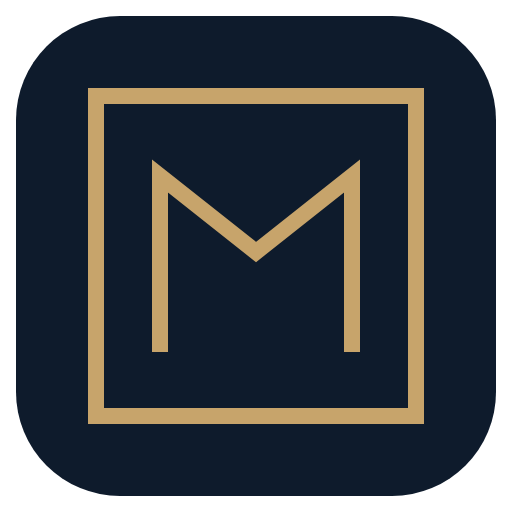
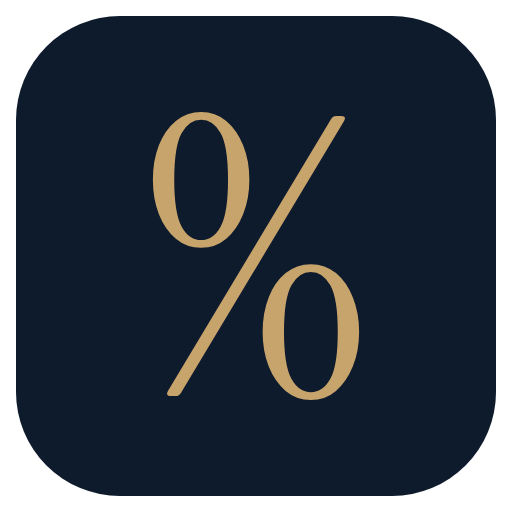
Új ikon: % jel (Instrument Serif) a keretes „M” helyett
- A keretes „M” a Gmail ikonjára emlékeztetett; az új jel a PD-re utal
- A betűjel vektoros útvonalként (nem függ betűtípustól); 24 px alatt
  vastagítva, hogy a tálcán is olvasható legyen
- app.ico (16–256 px), PNG-k, maskable ikon, favicon, fejléclogó
  (megnyitáskor kirajzolódik, majd kitöltődik)
- 96/96 teszt

Claude-Session: https://claude.ai/code/session_01XYeoaty873nzh4BqZz54MB

Changed region(s): [[0.1562, 0.1562, 0.8438, 0.8438]]

diff --git a/index.html b/index.html
@@ -58,6 +58,7 @@ body { margin: 0; background: var(--bg); color: var(--text); font: 15px/1.5 var(
 .mast-row { display: flex; justify-content: space-between; align-items: center; gap: 16px; flex-wrap: wrap; }
 .brand { display: flex; align-items: center; gap: 16px; }
 .brand svg { flex: none; }
+.brand svg .mark { fill: #C7A46B; stroke: #C7A46B; stroke-width: .5; }
 h1 { font-family: var(--serif); font-size: 30px; font-weight: 400; letter-spacing: 0; margin: 0; line-height: 1.1; }
 .brand .sub { font-size: 11px; letter-spacing: .22em; text-transform: uppercase; color: var(--mast-kicker); margin-top: 2px; }
 .head-actions { display: flex; gap: 8px; }
@@ -121,9 +122,10 @@ h1 { font-family: var(--serif); font-size: 30px; font-weight: 400; letter-spacin
 @keyframes fade { from { opacity: 0; } to { opacity: 1; } }
 @keyframes draw { from { stroke-dashoffset: 1; } to { stroke-dashoffset: 0; } }
 @keyframes grow { from { transform: scaleX(0); } to { transform: scaleX(1); } }
+@keyframes ink { to { fill-opacity: 1; } }
 @media (prefers-reduced-motion: no-preference) {
   /* oldalbetöltés: a logó kirajzolódik, a fejléc halkan beúszik */
-  .brand svg path { stroke-dasharray: 1; stroke-dashoffset: 1; animation: draw 1.6s var(--ease) .05s forwards; }
+  .brand svg .mark { fill-opacity: 0; stroke-dasharray: 1; stroke-dashoffset: 1; animation: draw 1.4s var(--ease) .05s forwards, ink .8s ease .95s forwards; }
   .brand > div { animation: rise .9s var(--ease) .2s both; }
   .tabs, .head-actions { animation: fade .9s ease .35s both; }
   .disclaimer > div { animation: fade .9s ease .45s both; }
@@ -258,7 +260,7 @@ footer { margin-top: 24px; color: var(--muted); font-size: 12px; text-align: cen
   <div class="mast-inner">
     <div class="mast-row">
       <div class="brand">
-        <svg width="40" height="40" viewBox="0 0 40 40" fill="none" aria-hidden="true"><path pathLength="1" d="M1 1H39V39H1Z" stroke="#B08D57" stroke-width="1.5"/><path pathLength="1" d="M10 28V14l10 8 10-8v14" stroke="#B08D57" stroke-width="1.5"/></svg>
+        <svg width="40" height="40" viewBox="0 0 40 40" fill="none" aria-hidden="true"><rect x=".75" y=".75" width="38.5" height="38.5" rx="8" fill="#16263B" stroke="#B08D57" stroke-opacity=".45" stroke-width="1.5"/><path class="mark" pathLength="1" d="M15.81 19.38Q14.71 19.38 13.88 18.68Q13.04 17.98 12.58 16.8Q12.12 15.63 12.12 14.17Q12.12 12.72 12.58 11.54Q13.04 10.37 13.88 9.68Q14.71 9 15.81 9Q16.91 9 17.73 9.68Q18.54 10.37 19.02 11.54Q19.49 12.72 19.49 14.17Q19.49 15.63 19.02 16.8Q18.54 17.98 17.73 18.68Q16.91 19.38 15.81 19.38ZM13.52 30.7Q13.04 30.7 13.28 30.29L25.74 9.54Q25.86 9.3 26.15 9.3H26.48Q26.96 9.3 26.72 9.71L14.26 30.46Q14.14 30.7 13.85 30.7ZM15.81 18.78Q16.73 18.78 17.29 17.76Q17.86 16.73 17.86 14.17Q17.86 11.62 17.29 10.61Q16.73 9.59 15.81 9.59Q14.89 9.59 14.32 10.61Q13.76 11.62 13.76 14.17Q13.76 16.73 14.32 17.76Q14.89 18.78 15.81 18.78ZM24.19 31Q23.09 31 22.26 30.3Q21.43 29.6 20.97 28.43Q20.51 27.25 20.51 25.8Q20.51 24.34 20.97 23.17Q21.43 21.99 22.26 21.31Q23.09 20.62 24.19 20.62Q25.29 20.62 26.11 21.31Q26.93 21.99 27.4 23.17Q27.88 24.34 27.88 25.8Q27.88 27.25 27.4 28.43Q26.93 29.6 26.11 30.3Q25.29 31 24.19 31ZM24.19 30.41Q25.11 30.41 25.68 29.38Q26.24 28.35 26.24 25.8Q26.24 23.24 25.68 22.23Q25.11 21.22 24.19 21.22Q23.27 21.22 22.71 22.23Q22.14 23.24 22.14 25.8Q22.14 28.35 22.71 29.38Q23.27 30.41 24.19 30.41Z"/></svg>
         <div>
           <h1 data-i18n="app.title">Hitelkockázat-elemző</h1>
           <div class="sub" data-i18n="app.kicker"></div>

diff --git a/HALADAS.md b/HALADAS.md
@@ -97,3 +97,4 @@ Opcionális v1.1: `income_missing` változó és `train_caps` export a tréning-
 - Minden függőség helyben (`vendor/`), licencekkel; az élő oldal telepíthető alkalmazásként (manifest + ikonok).
 - Egyszerű indítás szerverrel: `Inditas.cmd` / `Tesztek_futtatasa.cmd`.
 - Regresszió: 96/96 offline (`file://`) és HTTP-n is (TESZT_NAPLO 12. pont).
+- Új alkalmazásikon: az Instrument Serif „%” jele sárgarézben éjkék alapon (a PD maga egy százalék); a keretes „M” túlságosan a Gmailre emlékeztetett. A fejléc logója is erre cserélve, megnyitáskor kirajzolódik, majd kitöltődik.
